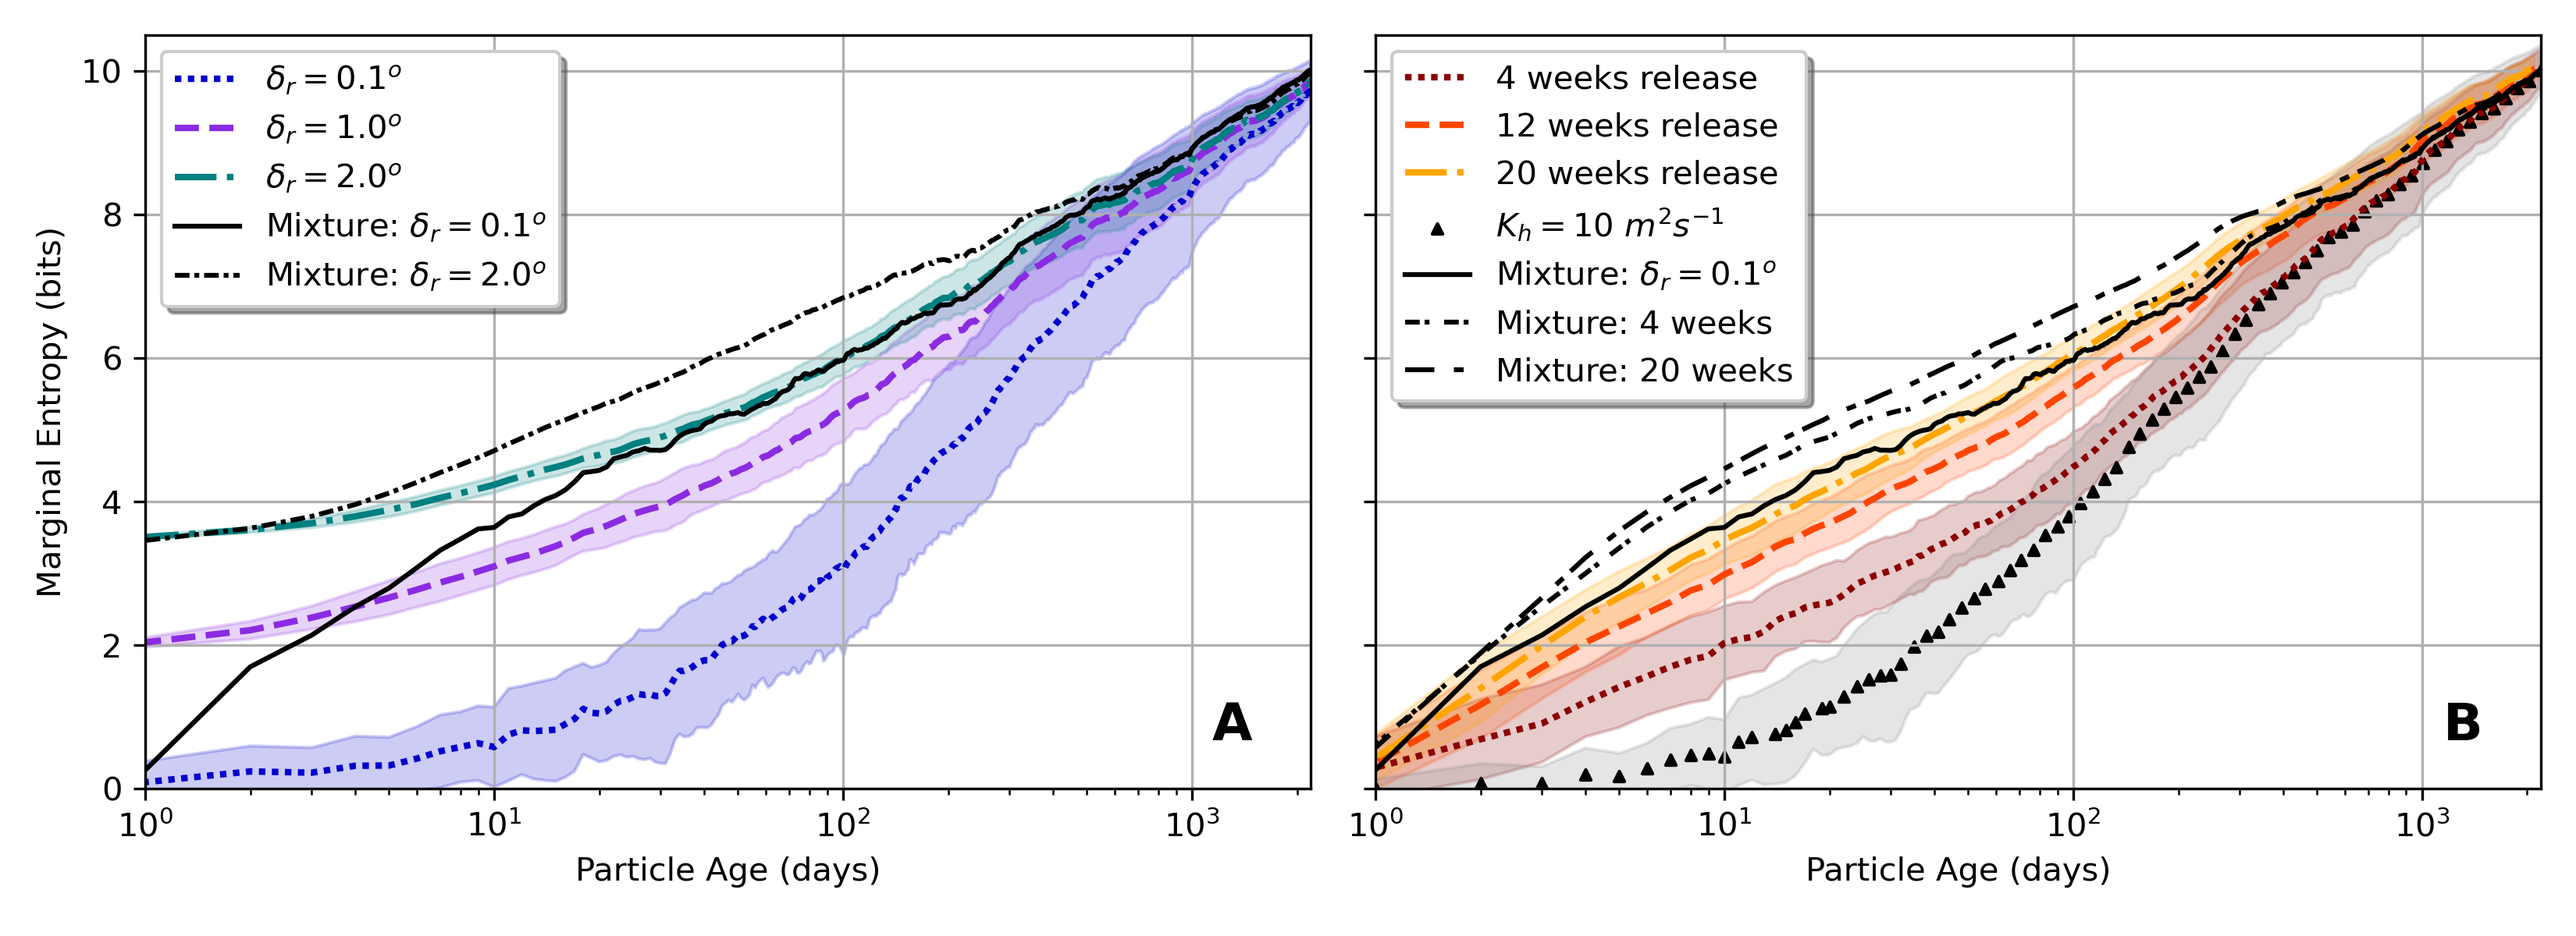
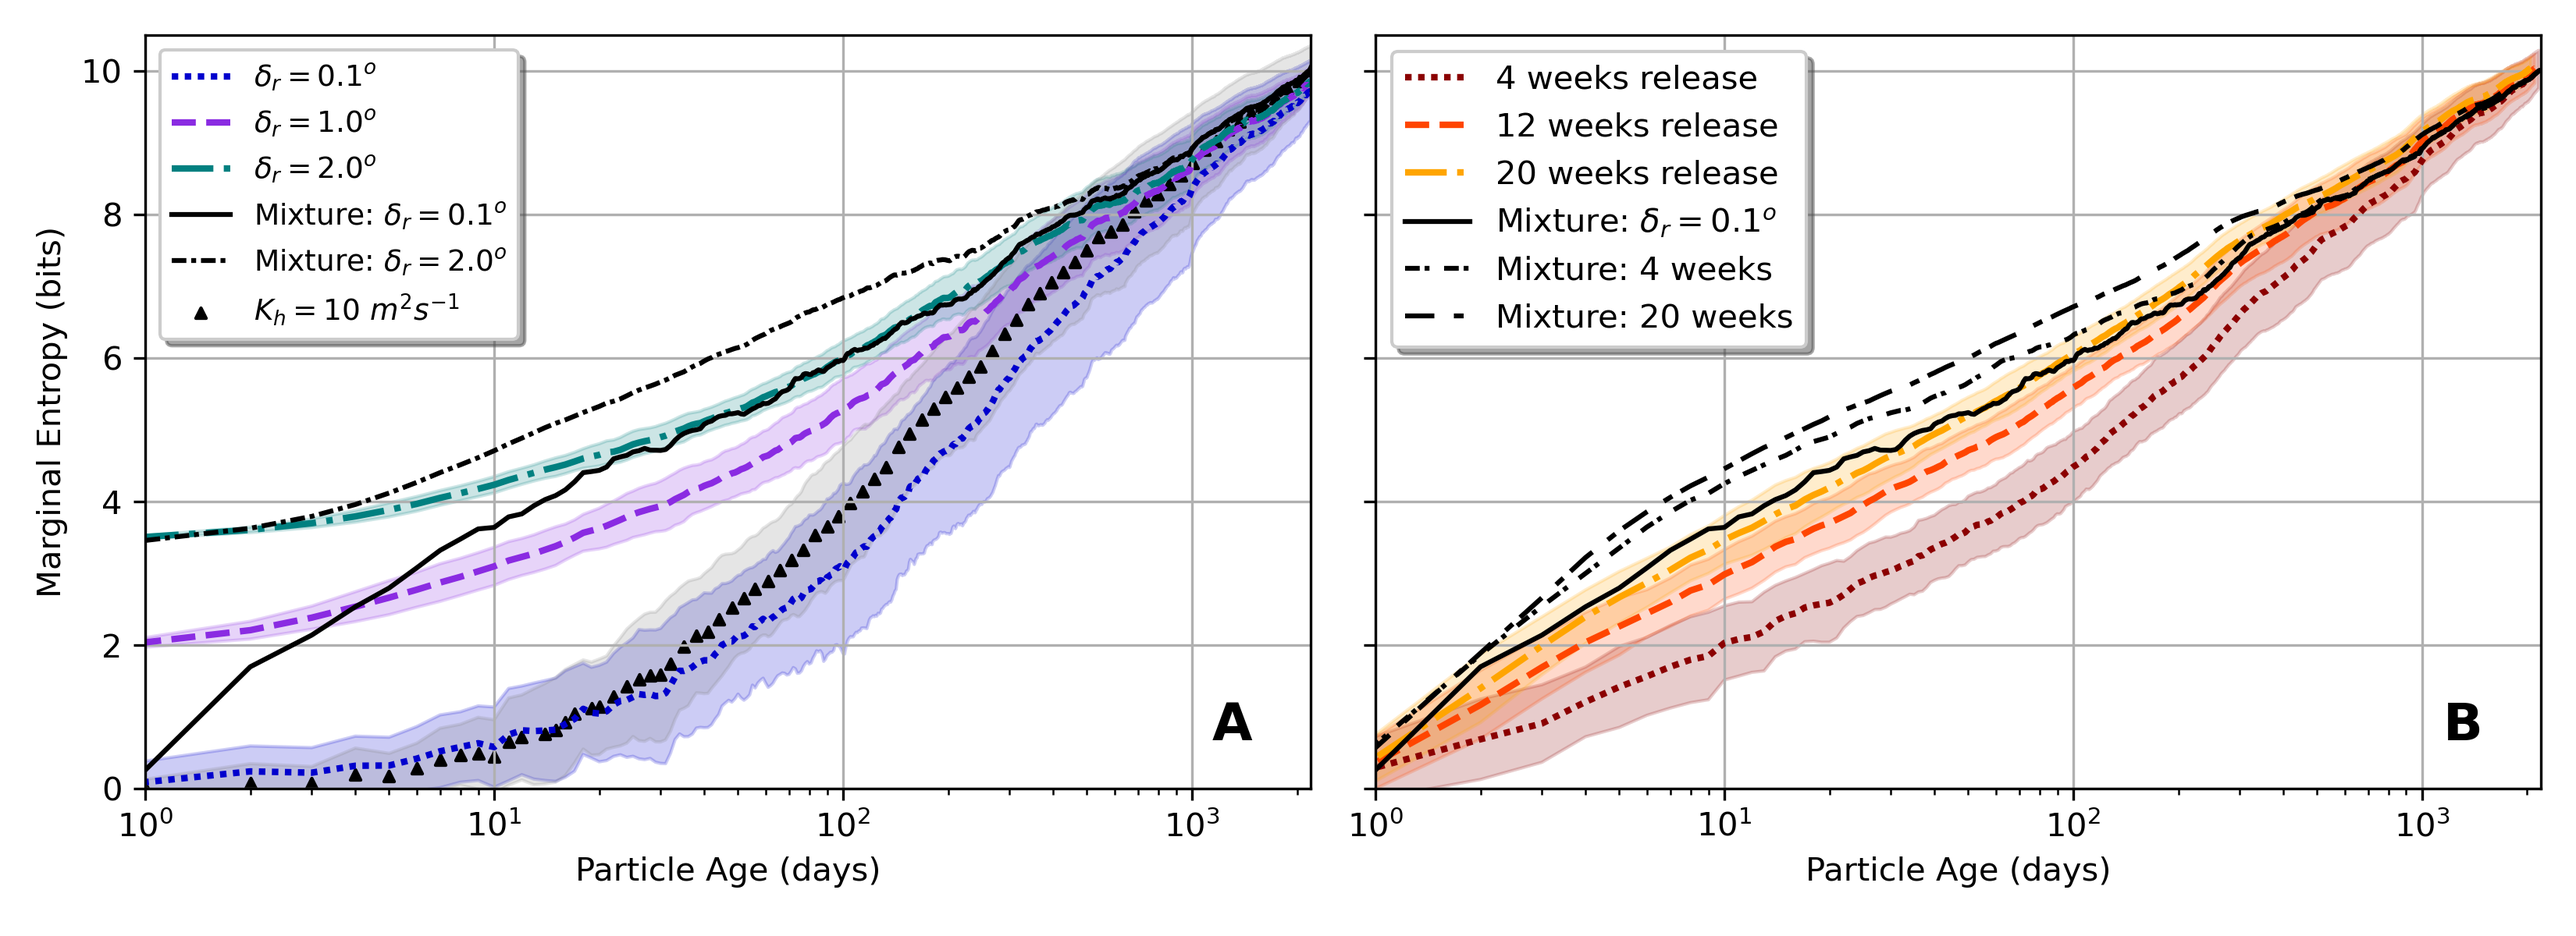
add diffusion part to fig4

diff --git a/plot_scripts/fig4-Representation_entropy.py b/plot_scripts/fig4-Representation_entropy.py
@@ -15,7 +15,7 @@ location = 'Cape_Hatteras'
 delta_r = 0.1
 subset = 1
 
-file_path_AX = f"/storage/shared/oceanparcels/output_data/data_Claudio/NEMO_Ensemble/analysis/prob_distribution/{location}_all_long/P_dr{delta_r*100:03.0f}_all_s{subset:03d}.nc"
+file_path_AX = f"/Volumes/Claudio SSD/Ensemble_article_data/analysis/prob_distribution/{location}_all_long/P_dr{delta_r*100:03.0f}_all_s{subset:03d}.nc"
 P_AX = xr.open_dataset(file_path_AX)
 
 hex_grid = hexfunc.int_to_hex(P_AX.hexint.values)
@@ -31,7 +31,7 @@ for delta_r in [0.1, 2]:
     entropy_all = np.zeros((51, len(P_AX['entropy'].values)))
     for i in range(1, 51):
         
-        file_path_AX = f"/storage/shared/oceanparcels/output_data/data_Claudio/NEMO_Ensemble/analysis/prob_distribution/{location}_all_long/P_dr{delta_r*100:03.0f}_all_s{i:03d}.nc"
+        file_path_AX = f"/Volumes/Claudio SSD/Ensemble_article_data/analysis/prob_distribution/{location}_all_long/P_dr{delta_r*100:03.0f}_all_s{i:03d}.nc"
         P_AX = xr.open_dataset(file_path_AX)
         
         entropy_all[i-1, :] = P_AX['entropy'].values
@@ -49,7 +49,7 @@ for week in [4, 20]:
     
     for i in range(1, 50):
         
-        file_path_AX = f"/storage/shared/oceanparcels/output_data/data_Claudio/NEMO_Ensemble/analysis/prob_distribution/{location}_all_long/P_W{week:02d}_all_s{i:03d}.nc"
+        file_path_AX = f"/Volumes/Claudio SSD/Ensemble_article_data/analysis/prob_distribution/{location}_all_long/P_W{week:02d}_all_s{i:03d}.nc"
         P_AX = xr.open_dataset(file_path_AX)
         
         entropy_all[i-1, :] = P_AX['entropy'].values
@@ -66,7 +66,7 @@ entropies_space_std = {}
 for i, delta_r in enumerate([0.1, 1, 2]):
     _entropy = np.zeros((50, len(P_AX['entropy'].values)))
     for i, member in enumerate(range(1, 51)):
-        file_path = f"/storage/shared/oceanparcels/output_data/data_Claudio/NEMO_Ensemble/analysis/prob_distribution/{location}_spatial_long/P_dr{delta_r*100:03.0f}_m{member:03d}.nc"
+        file_path = f"/Volumes/Claudio SSD/Ensemble_article_data/analysis/prob_distribution/{location}_spatial_long/P_dr{delta_r*100:03.0f}_m{member:03d}.nc"
         P_m = xr.open_dataset(file_path)
         
         _entropy[i, :] = P_m['entropy'].values
@@ -85,7 +85,7 @@ entropies_time_std = {}
 for week in week_range:
     _entropy = np.zeros((50, len(P_AX['entropy'].values)))
     for i, member in enumerate(range(1, 51)):
-        file_path = f"/storage/shared/oceanparcels/output_data/data_Claudio/NEMO_Ensemble/analysis/prob_distribution/{location}_temporal_long/P_W{week:01d}_m{member:03d}.nc"
+        file_path = f"/Volumes/Claudio SSD/Ensemble_article_data/analysis/prob_distribution/{location}_temporal_long/P_W{week:01d}_m{member:03d}.nc"
         P_m = xr.open_dataset(file_path)
         _entropy[i, :] = P_m['entropy'].values
         
@@ -103,7 +103,7 @@ entropies_diff_std = {}
 for K_h in K_h_range:
     _entropy = np.zeros((50, len(P_AX['entropy'].values)))
     for i, member in enumerate(range(1, 51)):
-        file_path = f"/storage/shared/oceanparcels/output_data/data_Claudio/NEMO_Ensemble/analysis/prob_distribution/{location}_diffusion_long/P_diff_Kh_{K_h:01d}_m{member:03d}.nc"
+        file_path = f"/Volumes/Claudio SSD/Ensemble_article_data/analysis/prob_distribution/{location}_diffusion_long/P_diff_Kh_{K_h:01d}_m{member:03d}.nc"
         P_m = xr.open_dataset(file_path)
         P_m = P_m.isel(time=slice(0, 2189))
         
@@ -112,81 +112,7 @@ for K_h in K_h_range:
     entropies_diff_mean[K_h] = np.mean(_entropy, axis=0)
     entropies_diff_std[K_h] = np.std(_entropy, axis=0)
 
-# %% spatial plot of the mean entropy
-time_range = np.arange(0, 2189)
 
-fig, ax = plt.subplots()
-
-lss = [(0, (1, 1)), '--', '-.']
-i=0
-
-colors_space = ['mediumblue', 'blueviolet', 'teal']
-for delta_r in [0.1, 1., 2.]:
-    
-    ax.plot(time_range, entropies_space_mean[delta_r],  
-            label=f'$\delta_r = {delta_r}^o$', linestyle=lss[i], linewidth=2, color=colors_space[i])
-    ax.fill_between(time_range, entropies_space_mean[delta_r] - entropies_space_std[delta_r], 
-                    entropies_space_mean[delta_r] + entropies_space_std[delta_r], 
-                    alpha=0.2, color=colors_space[i])
-    i+=1
-
-ax.plot(time_range, mixture_entropy_space[0.1], ls='-', color='black', label=r'Mixture: $\delta_r = 0.1^o$')
-ax.plot(time_range, mixture_entropy_space[2], ls=(0, (3, 1, 1, 1)), color='black', label=r'Mixture: $\delta_r = 2.0^o$')
-
-# ax.semilogx(time_range[:10],  time_range[:10]**(3/8) + 3, ls='-', color='red')
-ax.plot(time_range[10:1000],  1*np.log(time_range[10:1000]), ls='-', color='red')
-ax.plot(time_range[1:1000],  2*np.log(time_range[1:1000]), ls='-', color='red')
-ax.plot(time_range[10:1000],  (time_range[10:1000])**1, ls='-', color='green')
-ax.set_xlim(1, 2189)
-ax.set_ylim(0., 10.5)
-ax.semilogx(base=10)
-ax.legend(shadow=True)
-ax.set_ylabel('Marginal Entropy (bits)')
-ax.set_xlabel('Particle Age (days)')
-ax.grid()
-# plt.savefig('../figs/Fig3-Spatial-Representation_entropy.png', dpi=300)
-
-# %%%%%%%%%%%%%%%%%%%%%%%%% Temporal plot of the mean entropy %%%%%%%%%%%%%%%%%%%%%%%%%
-
-fig, ax = plt.subplots()
-
-lss = [(0, (1, 1)), '--', '-.', (0, (3, 1, 1, 1, 1, 1))]
-i=0
-colors_time = ['darkred', 'orangered', 'orange']
-
-for week in week_range:
-    
-    chop_time = len(P_m['time'].values) - week*7
-    ax.plot(time_range[:chop_time], entropies_time_mean[week][:chop_time],  
-            label=f'{week} weeks release', linestyle=lss[i], linewidth=2, color=colors_time[i])
-    ax.fill_between(time_range[:chop_time], entropies_time_mean[week][:chop_time] - entropies_time_std[week][:chop_time], 
-                    entropies_time_mean[week][:chop_time] + entropies_time_std[week][:chop_time],
-                    alpha=0.2, color=colors_time[i])
-    i+=1
-
-ax.plot(time_range[:2189-4*7], mixture_entropy_time[4][:2189-4*7], ls=(0, (3, 1, 1, 3)), 
-        color='black', label='Mixture: 4 weeks')
-
-# ax.plot(time_range[:2189-20*7], mixture_entropy_time[20][:2189-20*7], ls=(0, (3, 1, 1, 5)), 
-#         color='black', label='Mixture: 20 weeks')
-
-# ax.plot(time_range[:730-16*7], mixture_entropy_time[16][:730-16*7], ls='-', 
-#         color='black', label='Mixture: 16 weeks')
-
-ax.plot(time_range, mixture_entropy_space[0.1], ls='-', color='black', label=r'Mixture: $\delta_r = 0.1^o$')
-
-ax.set_xlim(1, 2189)
-ax.set_ylim(0., 10.5)
-
-ax.semilogx()
-ax.legend(shadow=True)
-ax.set_ylabel('Marginal Entropy (bits)')
-ax.set_xlabel('Particle Age (days)')
-ax.grid()
-# plt.savefig('../figs/Fig4-Temporal-Representation_entropy.png', dpi=300)
-
-
-#%%
 # %% Combined spatial and temporal plot of the mean entropy
 time_range = np.arange(0, 2189)
 
@@ -208,10 +134,29 @@ for delta_r in [0.1, 1., 2.]:
 ax1.plot(time_range, mixture_entropy_space[0.1], ls='-', color='black', label=r'Mixture: $\delta_r = 0.1^o$')
 ax1.plot(time_range, mixture_entropy_space[2], ls=(0, (3, 1, 1, 1)), color='black', label=r'Mixture: $\delta_r = 2.0^o$')
 
+# diffusion
+K_h = 10
+# Create logarithmically spaced indices
+n_samples = 100  # Choose the number of points you want
+log_indices = np.unique(np.geomspace(1, len(time_range)-1, n_samples).astype(int))
+
+# Use these indices to sample your data
+time_sampled = time_range[log_indices]
+y_sampled = entropies_diff_mean[K_h][log_indices]
+
+# ax.plot(time_range[:], entropies_diff_mean[K_h][:],  
+#         label=r'$K_h = 10 \ m^2 s^{-1}$', linestyle=(0, (2, 2, 10, 2)) , linewidth=2, color=color_diff)
+
+ax1.fill_between(time_range[:], entropies_diff_mean[K_h][:] - entropies_diff_std[K_h][:], 
+                entropies_diff_mean[K_h][:] + entropies_diff_std[K_h][:],
+                alpha=0.2, color='grey')
+ax1.scatter(time_sampled, y_sampled,
+        label=r'$K_h = 10 \ m^2 s^{-1}$', color='k', marker='^', s=10)
+
 ax1.set_xlim(1, 2189)
 ax1.set_ylim(0., 10.5)
 ax1.semilogx()
-ax1.legend(shadow=True)
+ax1.legend(shadow=True, fontsize=9, loc='upper left')
 ax1.set_ylabel('Marginal Entropy (bits)')
 ax1.set_xlabel('Particle Age (days)')
 ax1.grid()
@@ -231,25 +176,7 @@ for week in week_range:
                      alpha=0.2, color=colors_time[i])
     i += 1
 
-# diffusion
-K_h = 10
-# Create logarithmically spaced indices
-# This will sample more points at the beginning and fewer at the end
-n_samples = 100  # Choose the number of points you want
-log_indices = np.unique(np.geomspace(1, len(time_range)-1, n_samples).astype(int))
 
-# Use these indices to sample your data
-time_sampled = time_range[log_indices]
-y_sampled = entropies_diff_mean[K_h][log_indices]
-
-# ax.plot(time_range[:], entropies_diff_mean[K_h][:],  
-#         label=r'$K_h = 10 \ m^2 s^{-1}$', linestyle=(0, (2, 2, 10, 2)) , linewidth=2, color=color_diff)
-
-ax2.fill_between(time_range[:], entropies_diff_mean[K_h][:] - entropies_diff_std[K_h][:], 
-                entropies_diff_mean[K_h][:] + entropies_diff_std[K_h][:],
-                alpha=0.2, color='grey')
-ax2.scatter(time_sampled, y_sampled,
-        label=r'$K_h = 10 \ m^2 s^{-1}$', color='k', marker='^', s=10)
 
 ax2.plot(time_range, mixture_entropy_space[0.1], ls='-', color='black', label=r'Mixture: $\delta_r = 0.1^o$')
 ax2.plot(time_range[:2189-4*7], mixture_entropy_time[4][:2189-4*7], ls=(0, (3, 1, 1, 3)), 
@@ -258,11 +185,10 @@ ax2.plot(time_range[:2189-20*7], mixture_entropy_time[20][:2189-20*7], ls=(0, (6
          color='black', label='Mixture: 20 weeks')
 
 
-
 ax2.set_xlim(1, 2189)
 ax2.set_ylim(0., 10.5)
 ax2.semilogx()
-ax2.legend(shadow=True)
+ax2.legend(shadow=True, fontsize=10, loc='upper left')
 ax2.set_xlabel('Particle Age (days)')
 ax2.grid()
 ax2.text(0.95, 0.05, 'B', transform=ax2.transAxes, fontsize=16, fontweight='bold', va='bottom', ha='right')

diff --git a/plot_scripts/fig3-Connectivity.py b/plot_scripts/fig3-Connectivity.py
@@ -242,12 +242,6 @@ for j, delta_r in enumerate([0.1, 1., 2.]):
     sns.ecdfplot(all_space[delta_r]["median_time"]/365, ax=ax[1], label=f"Spatial dr{delta_r}", 
                  color=colors_space[j], linestyle=ls_space[j])
 
-#diffusion
-sns.ecdfplot(all_diff["counts"], ax=ax[0], label=f"$K_h = 10 $",
-             color='black', linestyle='-')
-sns.ecdfplot(all_diff["median_time"]/365, ax=ax[1], label=f"Spatial dr{delta_r}", 
-                 color='black', linestyle='-')
-
 
 for j, dr_ref in enumerate([0.1, 1., 2.]):
     mean_counts = all_mix_space[dr_ref]["counts"].mean()
@@ -265,6 +259,13 @@ for j, dr_ref in enumerate([0.1, 1., 2.]):
                         color=colors_space[j], alpha=0.5, label=f"Mix. $\delta_r = {dr_ref}^o$",
                         edgecolor='none')
     ax[1].set_xlim(2, 5)
+
+
+#diffusion
+sns.ecdfplot(all_diff["counts"], ax=ax[0], label=f"$K_h = 10 \ m^2 s^{-1}$",
+             color='black', linestyle='-')
+sns.ecdfplot(all_diff["median_time"]/365, ax=ax[1], label=f"Spatial dr{delta_r}", 
+                 color='black', linestyle='-')
 
 colors_temp = ["darkred", "orangered", "orange"]
 ls_time = [(0, (1, 1)), '--', '-.', (0, (3, 1, 1, 1, 1, 1))]
@@ -316,32 +317,4 @@ plt.tight_layout()
 
 plt.savefig("../figs/Fig3_ECDF_Comparisson" + criterium_string + ".png", dpi=300)
 
-
-# then compute the entropy of the KDE. No plotting here
-    
-# Compute the entropy of the KDE
-from scipy.stats import entropy
-
-types = ["Spatial 0.1", "Spatial 1.0", "Spatial 2.0", "Temporal 4", "Temporal 12", "Temporal 20"]
-
-entropy_single = np.zeros(6)
-entropy_mixture = np.zeros(6)
-
-j = 0
-for delta_r in [0.1, 1., 2.]:
-    entropy_single[j] = entropy(kde_space[delta_r][1])
-    # entropy_mixture[j] = entropy(kde_mix_space[delta_r][1])
-    j += 1
-    
-for j, week in enumerate([4, 12, 20]):
-    entropy_single[j+3] = entropy(kde_temp[week][1])
-    # entropy_mixture[j+3] = entropy(kde_mix_temp[week][1])
-    j += 1
-
-# # Create the dataframe
-# entropy_df = pd.DataFrame({"Type": types, "Entropy": [entropy_space[0.1], entropy_space[1.], entropy_space[2.],
-#                                                             entropy_temp[4], entropy_temp[12], entropy_temp[20]]})
-
-# entropy_mix_df = pd.DataFrame({"Type": types, "Entropy": [entropy_mix_space[0.1], entropy_mix_space[1.], entropy_mix_space[2.],
-#                                                             entropy_mix_temp[4], entropy_mix_temp[12], entropy_mix_temp[20]]})
-
+# %%
